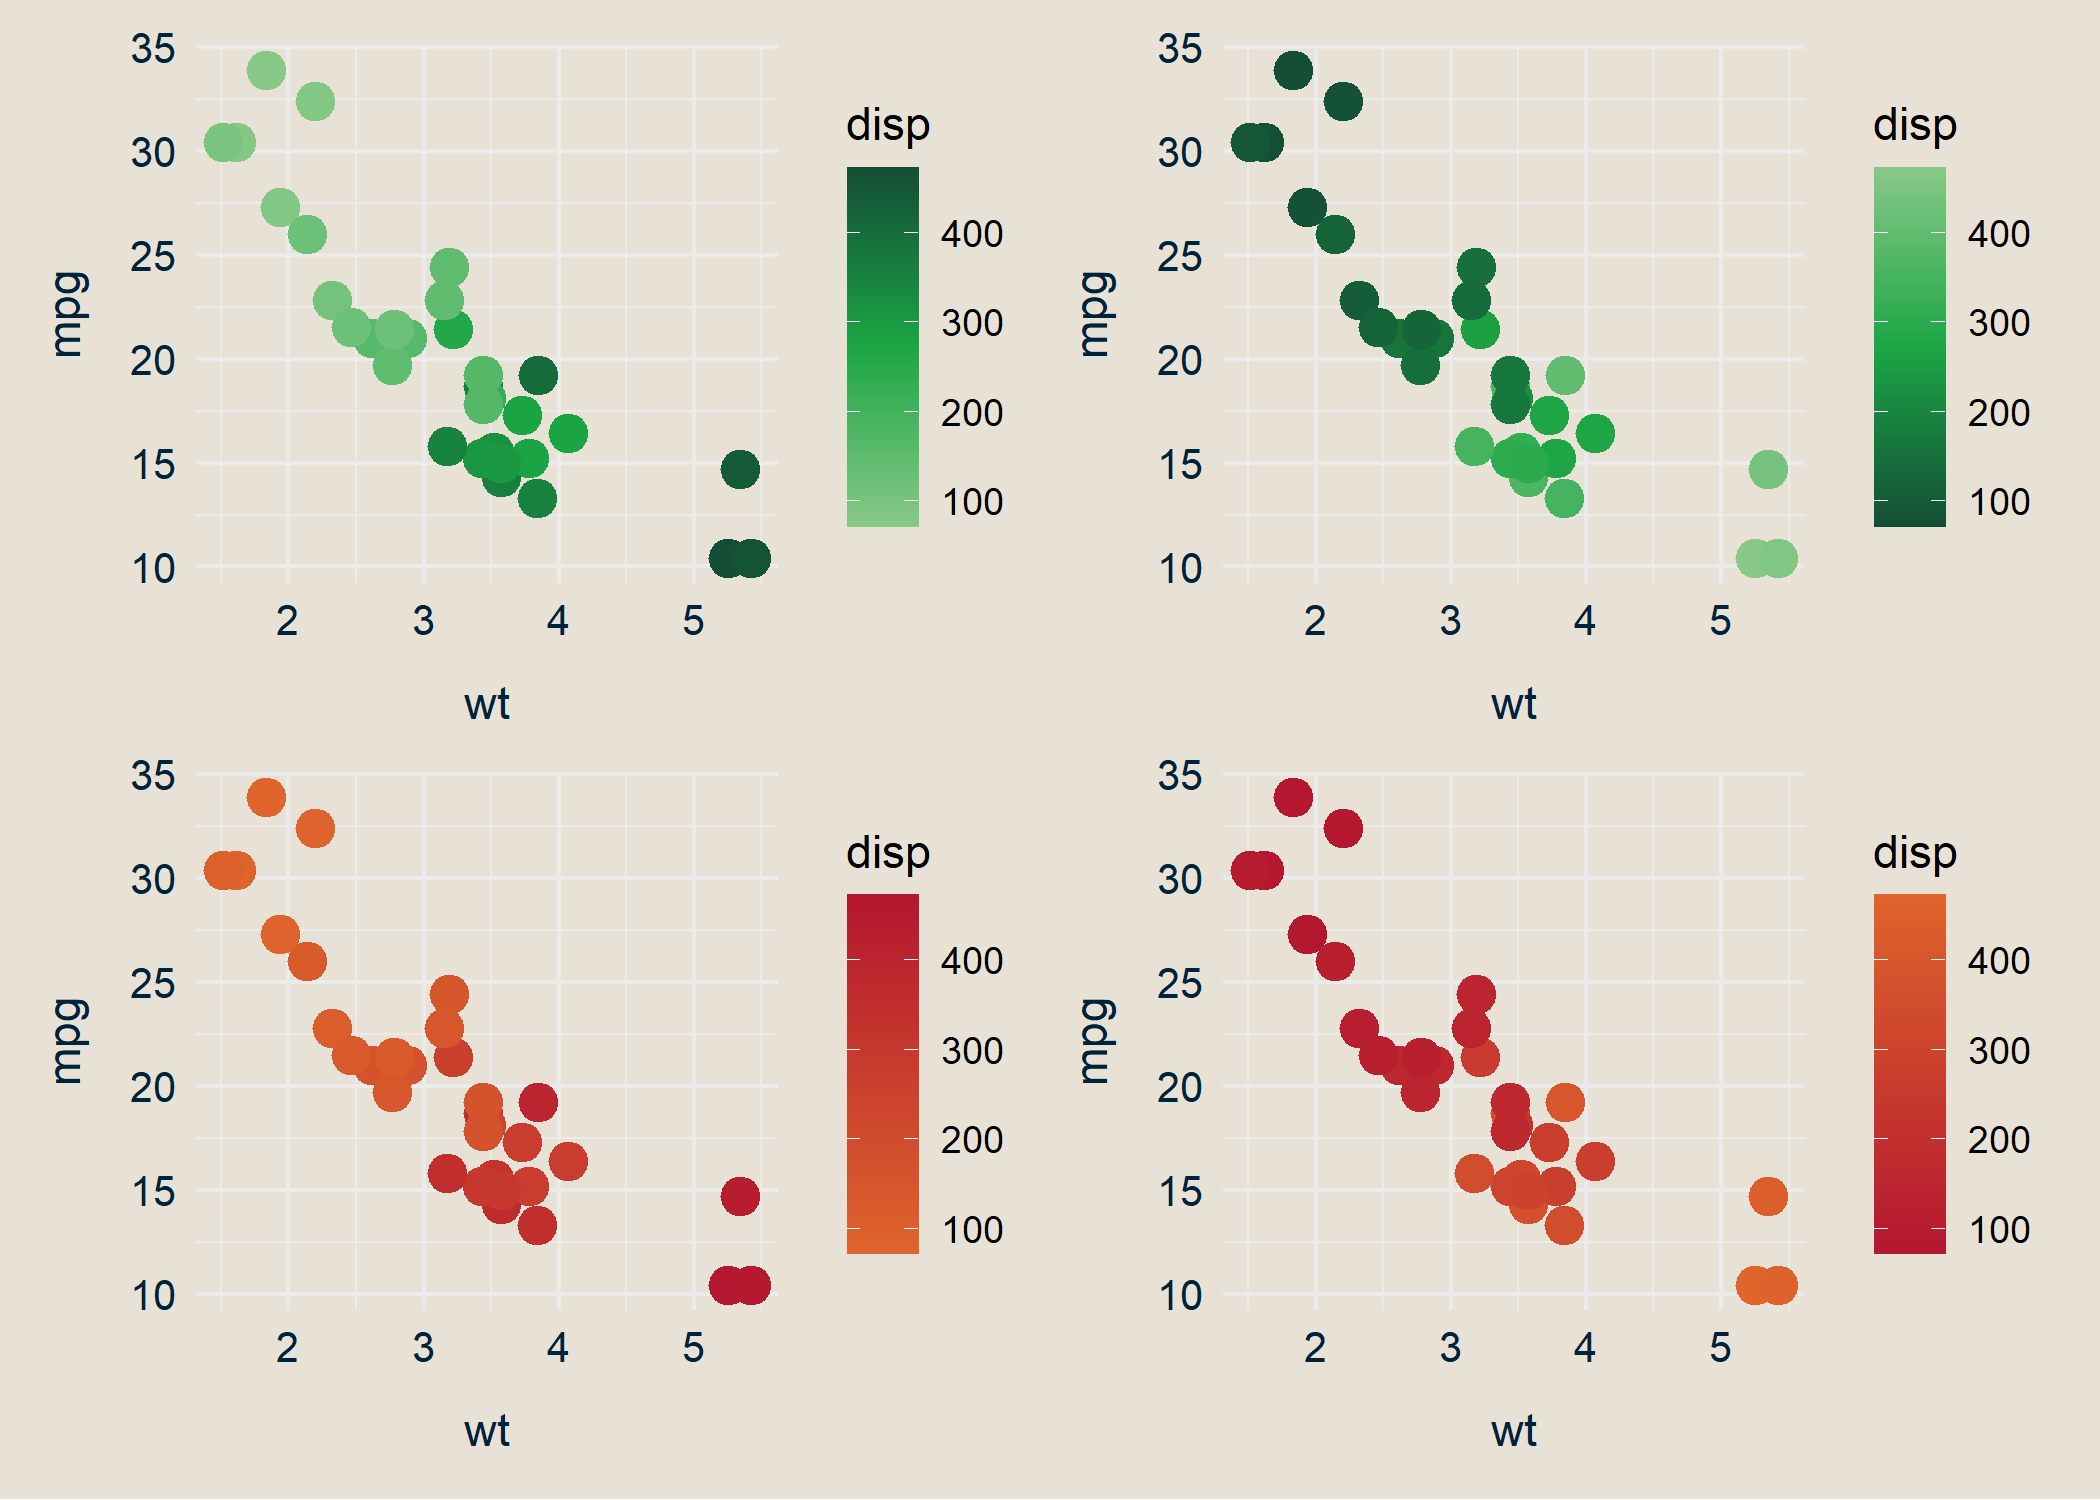
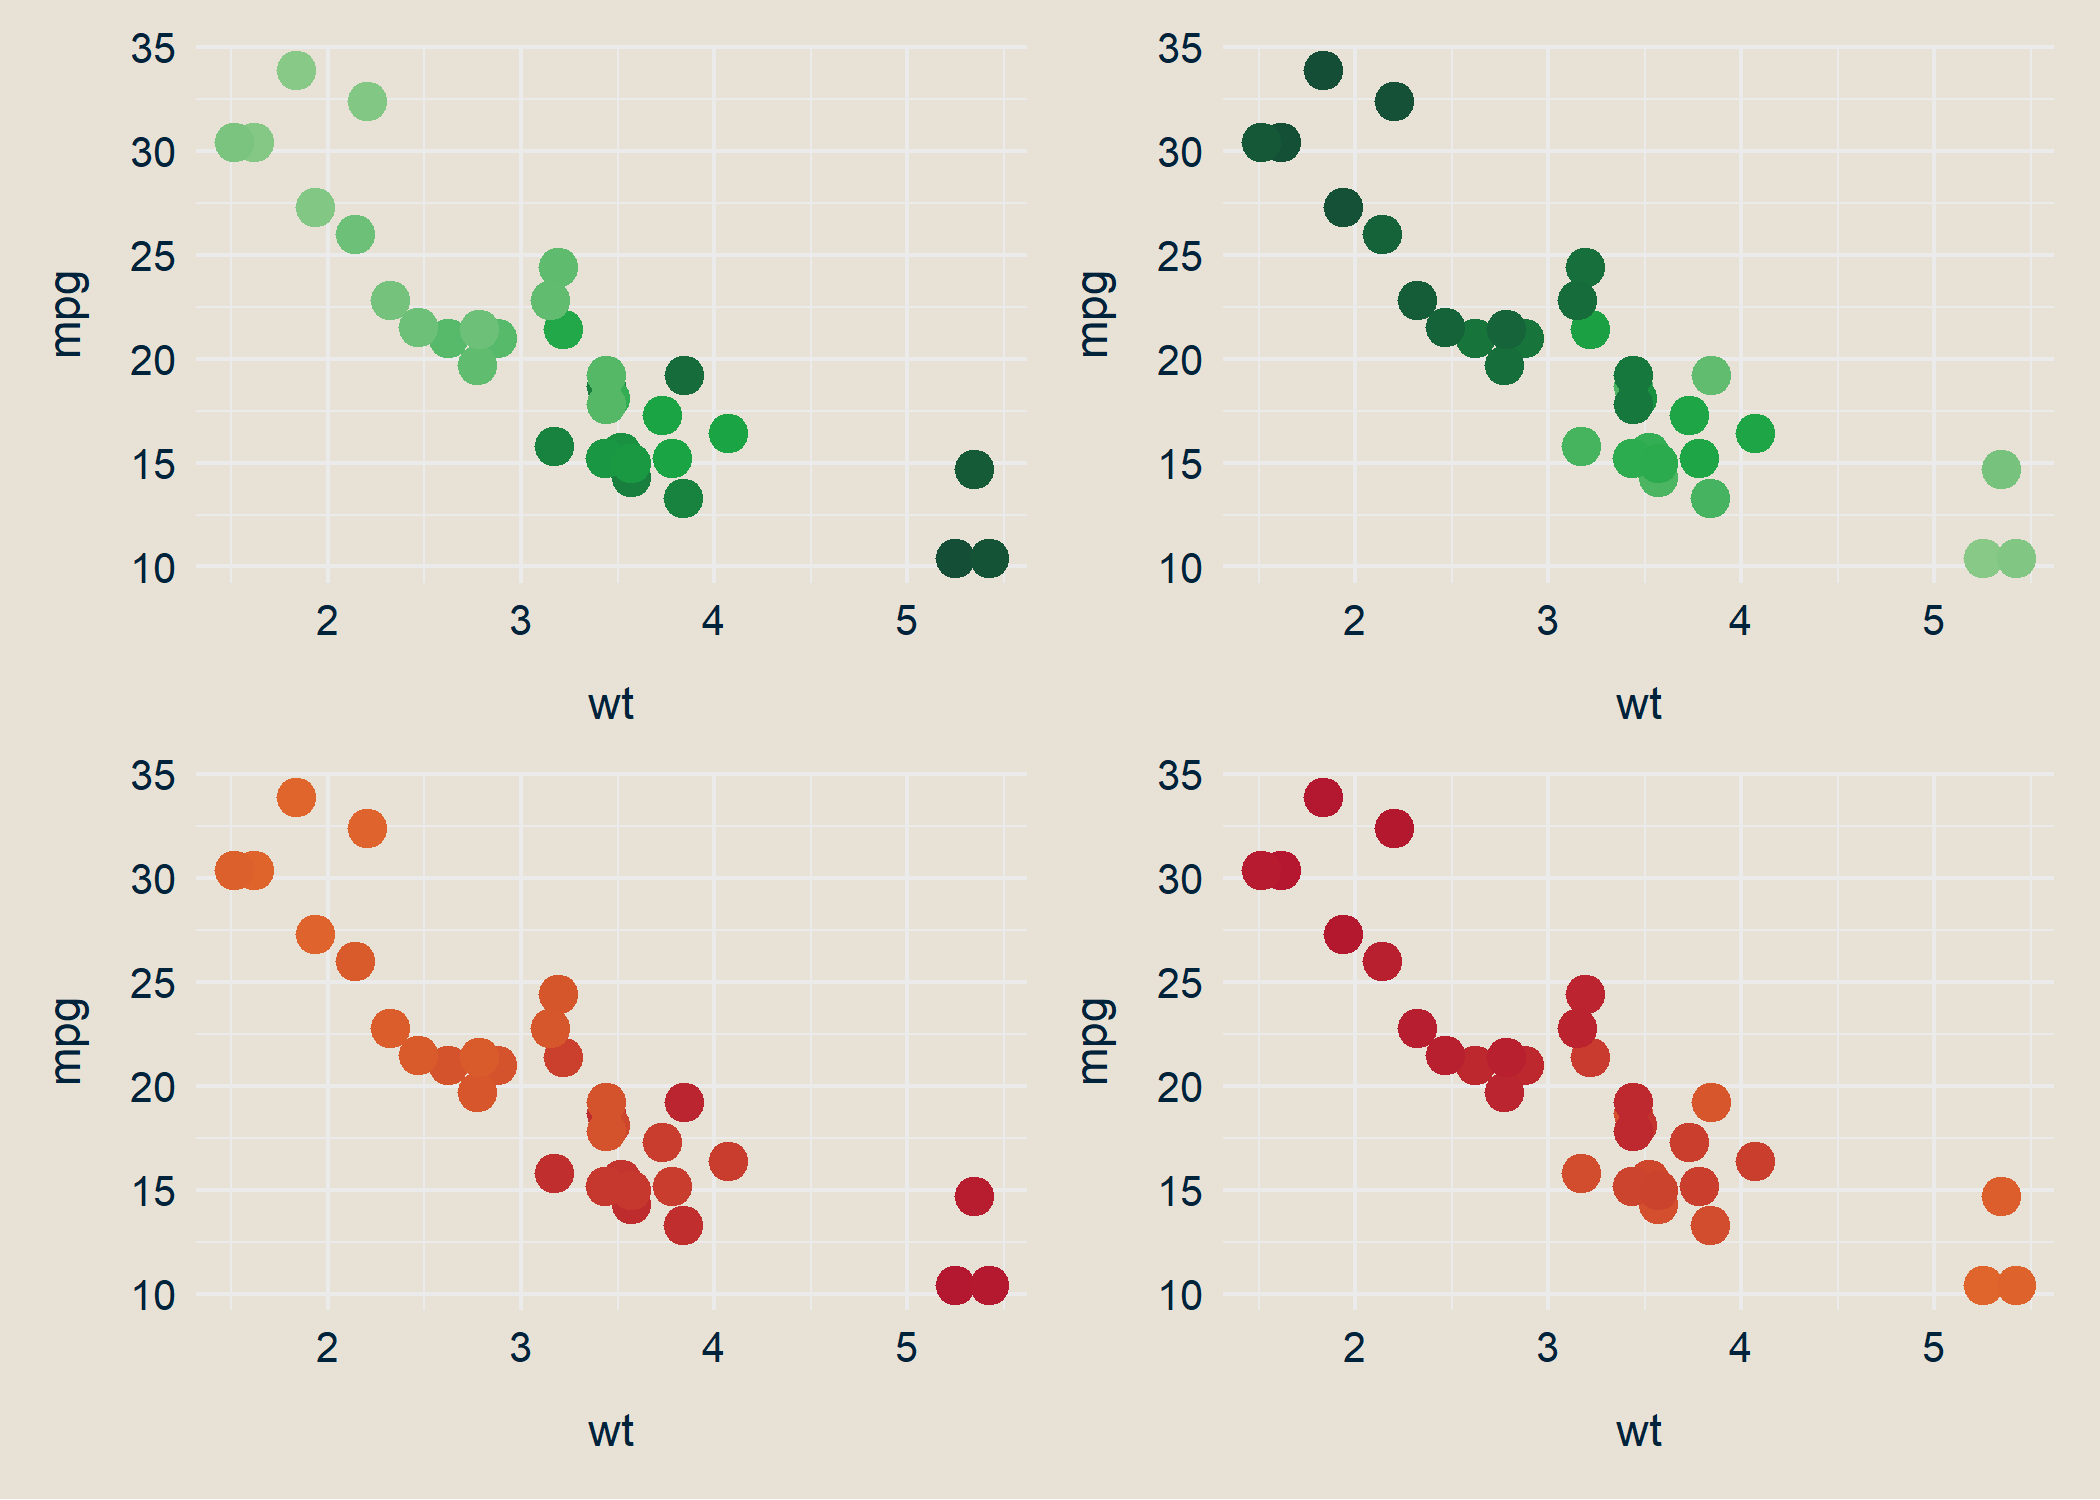
new readme

diff --git a/README.md b/README.md
@@ -85,7 +85,7 @@ ggplot(mtcars, aes(x = wt,
                    y = mpg,
                    color = factor(am))) +
   geom_point(size = 4) +
-  dsb_theme_classic() +
+  dsb_theme_classic(gridlines = "none") +
   theme(legend.position = "right")
 ```
 
@@ -127,8 +127,8 @@ dsb_colvec("DSB Red", "DSB DarkBlue")
 
 We can use these to manually change our colors by either (1) using the
 HEX codes provided by `epinion::dsb_colvec()` directly or (2) by pasting
-the names into the `epinionDSB::grabcol()` function. Both functions only
-accept colors in the Epinion color palette as inputs but are not
+the names into the `epinionDSB::dsb_grabcol()` function. Both functions
+only accept colors in the Epinion color palette as inputs but are not
 sensitive to the inclusion of the Epinion prefix:
 
 ``` r
@@ -137,8 +137,8 @@ ggplot(mtcars, aes(x = wt,
                    color = factor(am))) +
   geom_point(size = 4) +
   dsb_theme_dust(legend = FALSE) +
-  scale_colour_manual(values = c(grabcol("DSB Red"), 
-                                 grabcol("DarkBlue")))
+  scale_colour_manual(values = c(dsb_grabcol("DSB Red"), 
+                                 dsb_grabcol("DarkBlue")))
 ```
 
 <img src="man/figures/README-unnamed-chunk-4-1.png" width="75%" style="display: block; margin: auto;" />
@@ -171,8 +171,9 @@ you to reverse the order of the color scale (default is `FALSE`).
 
   - When mapping `color_dsb_d()` or `fill_dsb_d()` to a variable with
     **only two levels**, you can manually choose colors with the
-    `primary` and `secondary` arguments. As with `epinionDSB::grabcol()`
-    colors can be specified with or without the DSB prefix
+    `primary` and `secondary` arguments. As with
+    `epinionDSB::dsb_grabcol()` colors can be specified with or without
+    the DSB prefix
 
 <!-- end list -->
 
@@ -218,8 +219,8 @@ p1 <-
                          y = mpg,
                          color = disp)) +
   geom_point(size = 4) +
-  dsb_theme_dust(background = TRUE) +
-  theme(legend.position = "right") +
+  dsb_theme_dust(background = TRUE,
+                 legend = FALSE) +
   color_dsb_c(palette = "greens")
 
 p2 <- 
@@ -227,8 +228,8 @@ p2 <-
                          y = mpg,
                          color = disp)) +
   geom_point(size = 4) +
-  dsb_theme_dust(background = TRUE) +
-  theme(legend.position = "right") +
+  dsb_theme_dust(background = TRUE,
+                 legend = FALSE) +
   color_dsb_c(palette = "greens",
               reverse = TRUE)
 
@@ -237,8 +238,8 @@ p3 <-
                          y = mpg,
                          color = disp)) +
   geom_point(size = 4) +
-  dsb_theme_dust(background = TRUE) +
-  theme(legend.position = "right") +
+  dsb_theme_dust(background = TRUE,
+                 legend = FALSE) +
   color_dsb_c(palette = "reds")
 
 p4 <- 
@@ -246,8 +247,8 @@ p4 <-
                          y = mpg,
                          color = disp)) +
   geom_point(size = 4) +
-  dsb_theme_dust(background = TRUE) +
-  theme(legend.position = "right") +
+  dsb_theme_dust(background = TRUE,
+                 legend = FALSE) +
   color_dsb_c(palette = "reds",
               reverse = TRUE)
 
